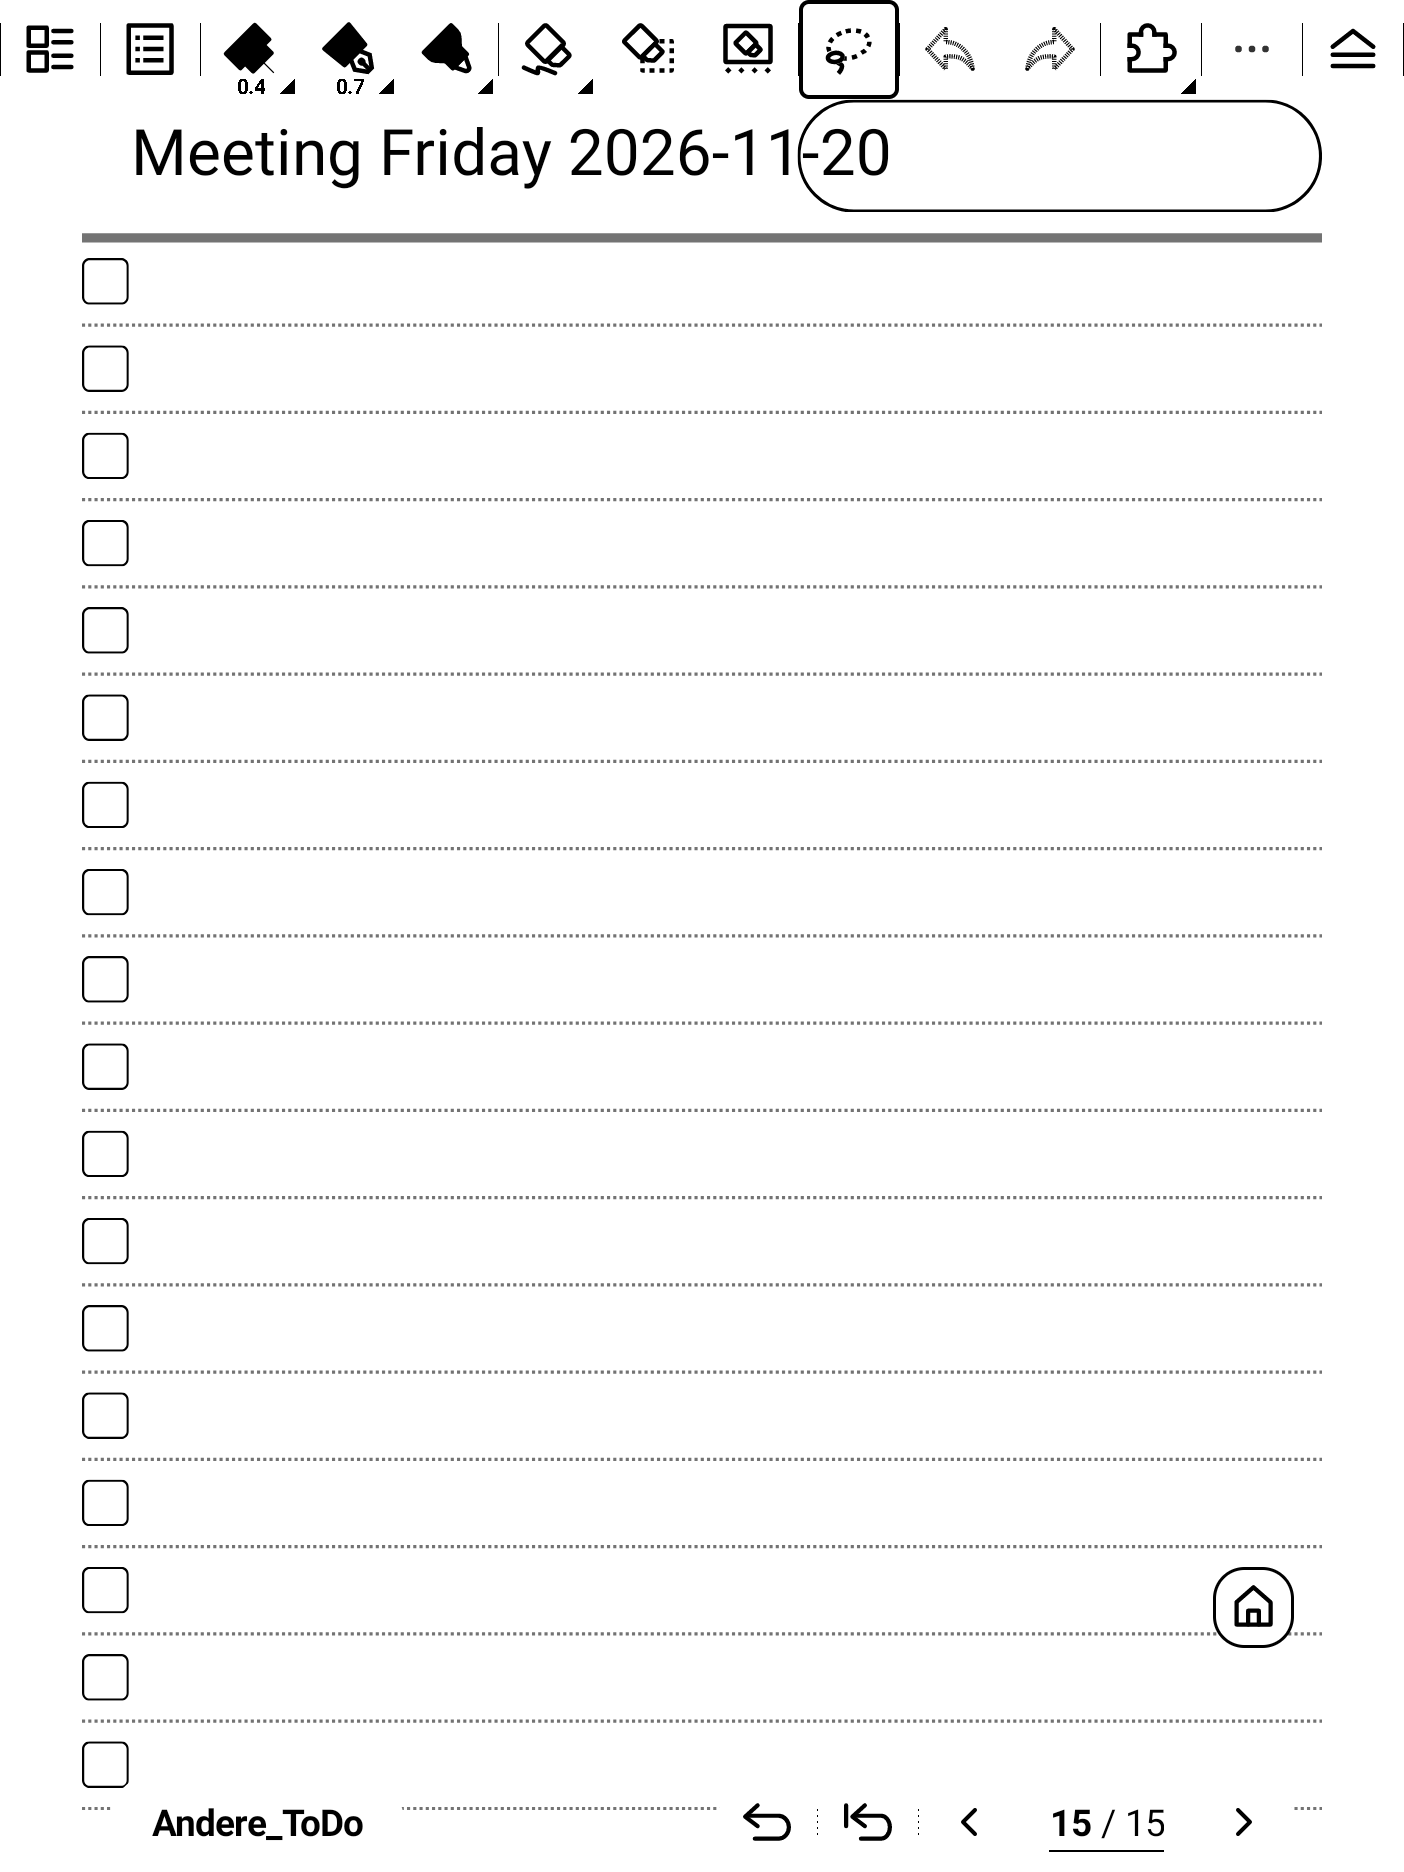
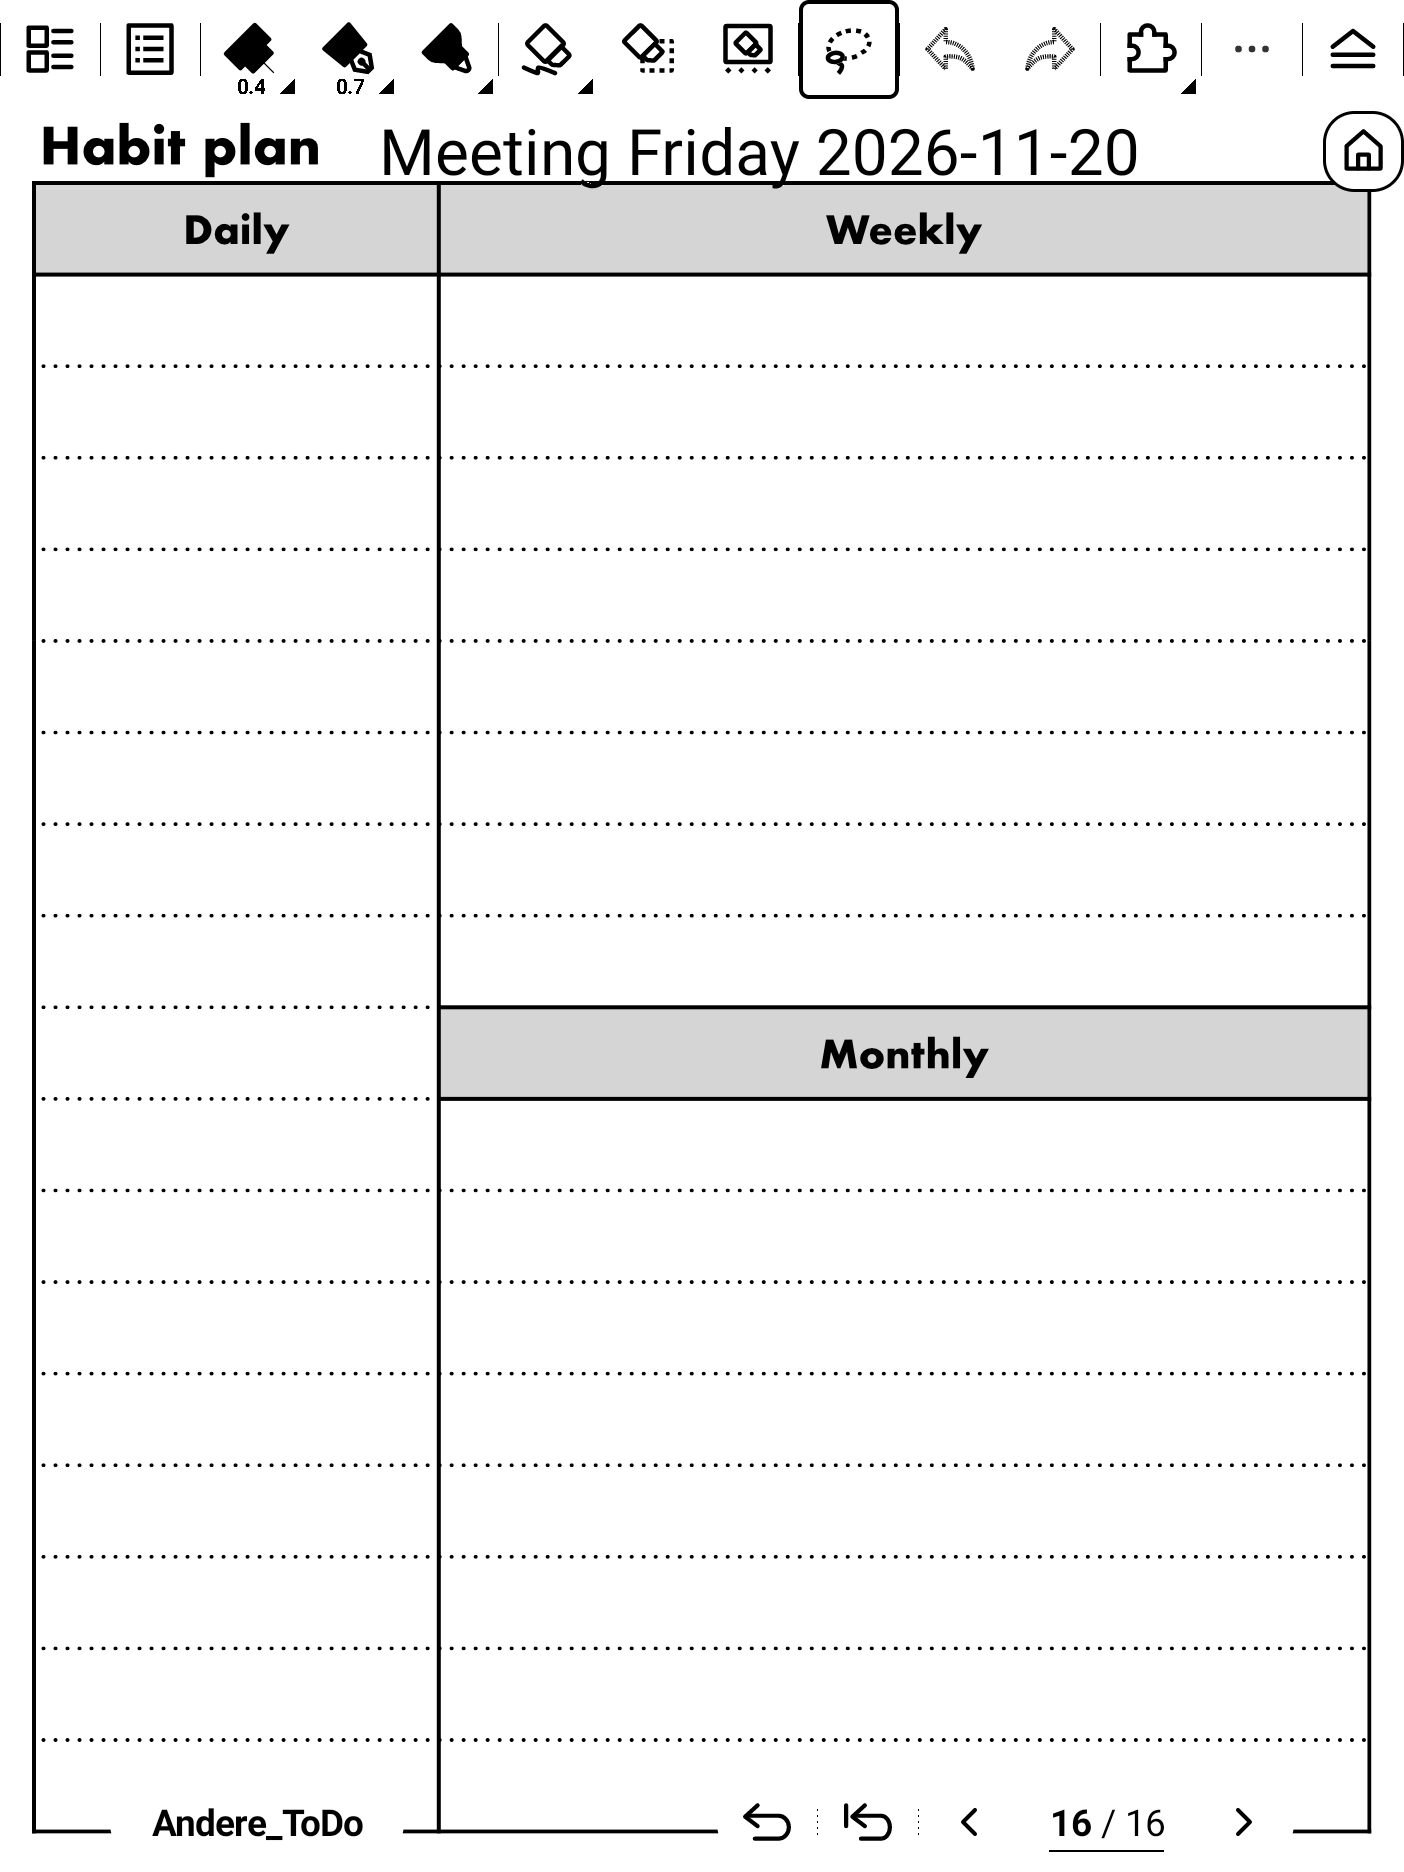
Use new screenshots on the site
The header now sits at left 400, next to the template's own title.

Changed region(s): [[0.0, 0.062, 1.0, 0.9915], [0.8575, 0.8365, 0.9188, 0.8985]]

diff --git a/docs/index.html b/docs/index.html
@@ -320,11 +320,11 @@
     <p class="lead">Tap a screenshot to see it full size.</p>
     <div class="gallery">
       <figure>
-        <a href="screenshots/Settings.png"><div class="device"><img src="screenshots/Settings.png" width="1404" height="1872" loading="lazy" alt="The Settings screen with the title Meeting {weekday} {date}, its preview Meeting Friday 2026-11-20, and Left 100, Top 107"></div></a>
+        <a href="screenshots/Settings.png"><div class="device"><img src="screenshots/Settings.png" width="1404" height="1872" loading="lazy" alt="The Settings screen with the title Meeting {weekday} {date}, its preview Meeting Friday 2026-11-20, and Left 400, Top 107"></div></a>
         <figcaption>Settings: title and place</figcaption>
       </figure>
       <figure>
-        <a href="screenshots/New_Page.png"><div class="device"><img src="screenshots/New_Page.png" width="1404" height="1872" loading="lazy" alt="The new page at the end of a to-do notebook, with the header Meeting Friday 2026-11-20 on the notebook's own to-do template"></div></a>
+        <a href="screenshots/New_Page.png"><div class="device"><img src="screenshots/New_Page.png" width="1404" height="1872" loading="lazy" alt="The new page at the end of a notebook, on its habit plan template, with the header Meeting Friday 2026-11-20 next to the template's own title"></div></a>
         <figcaption>The new page, on the notebook's own template</figcaption>
       </figure>
     </div>
